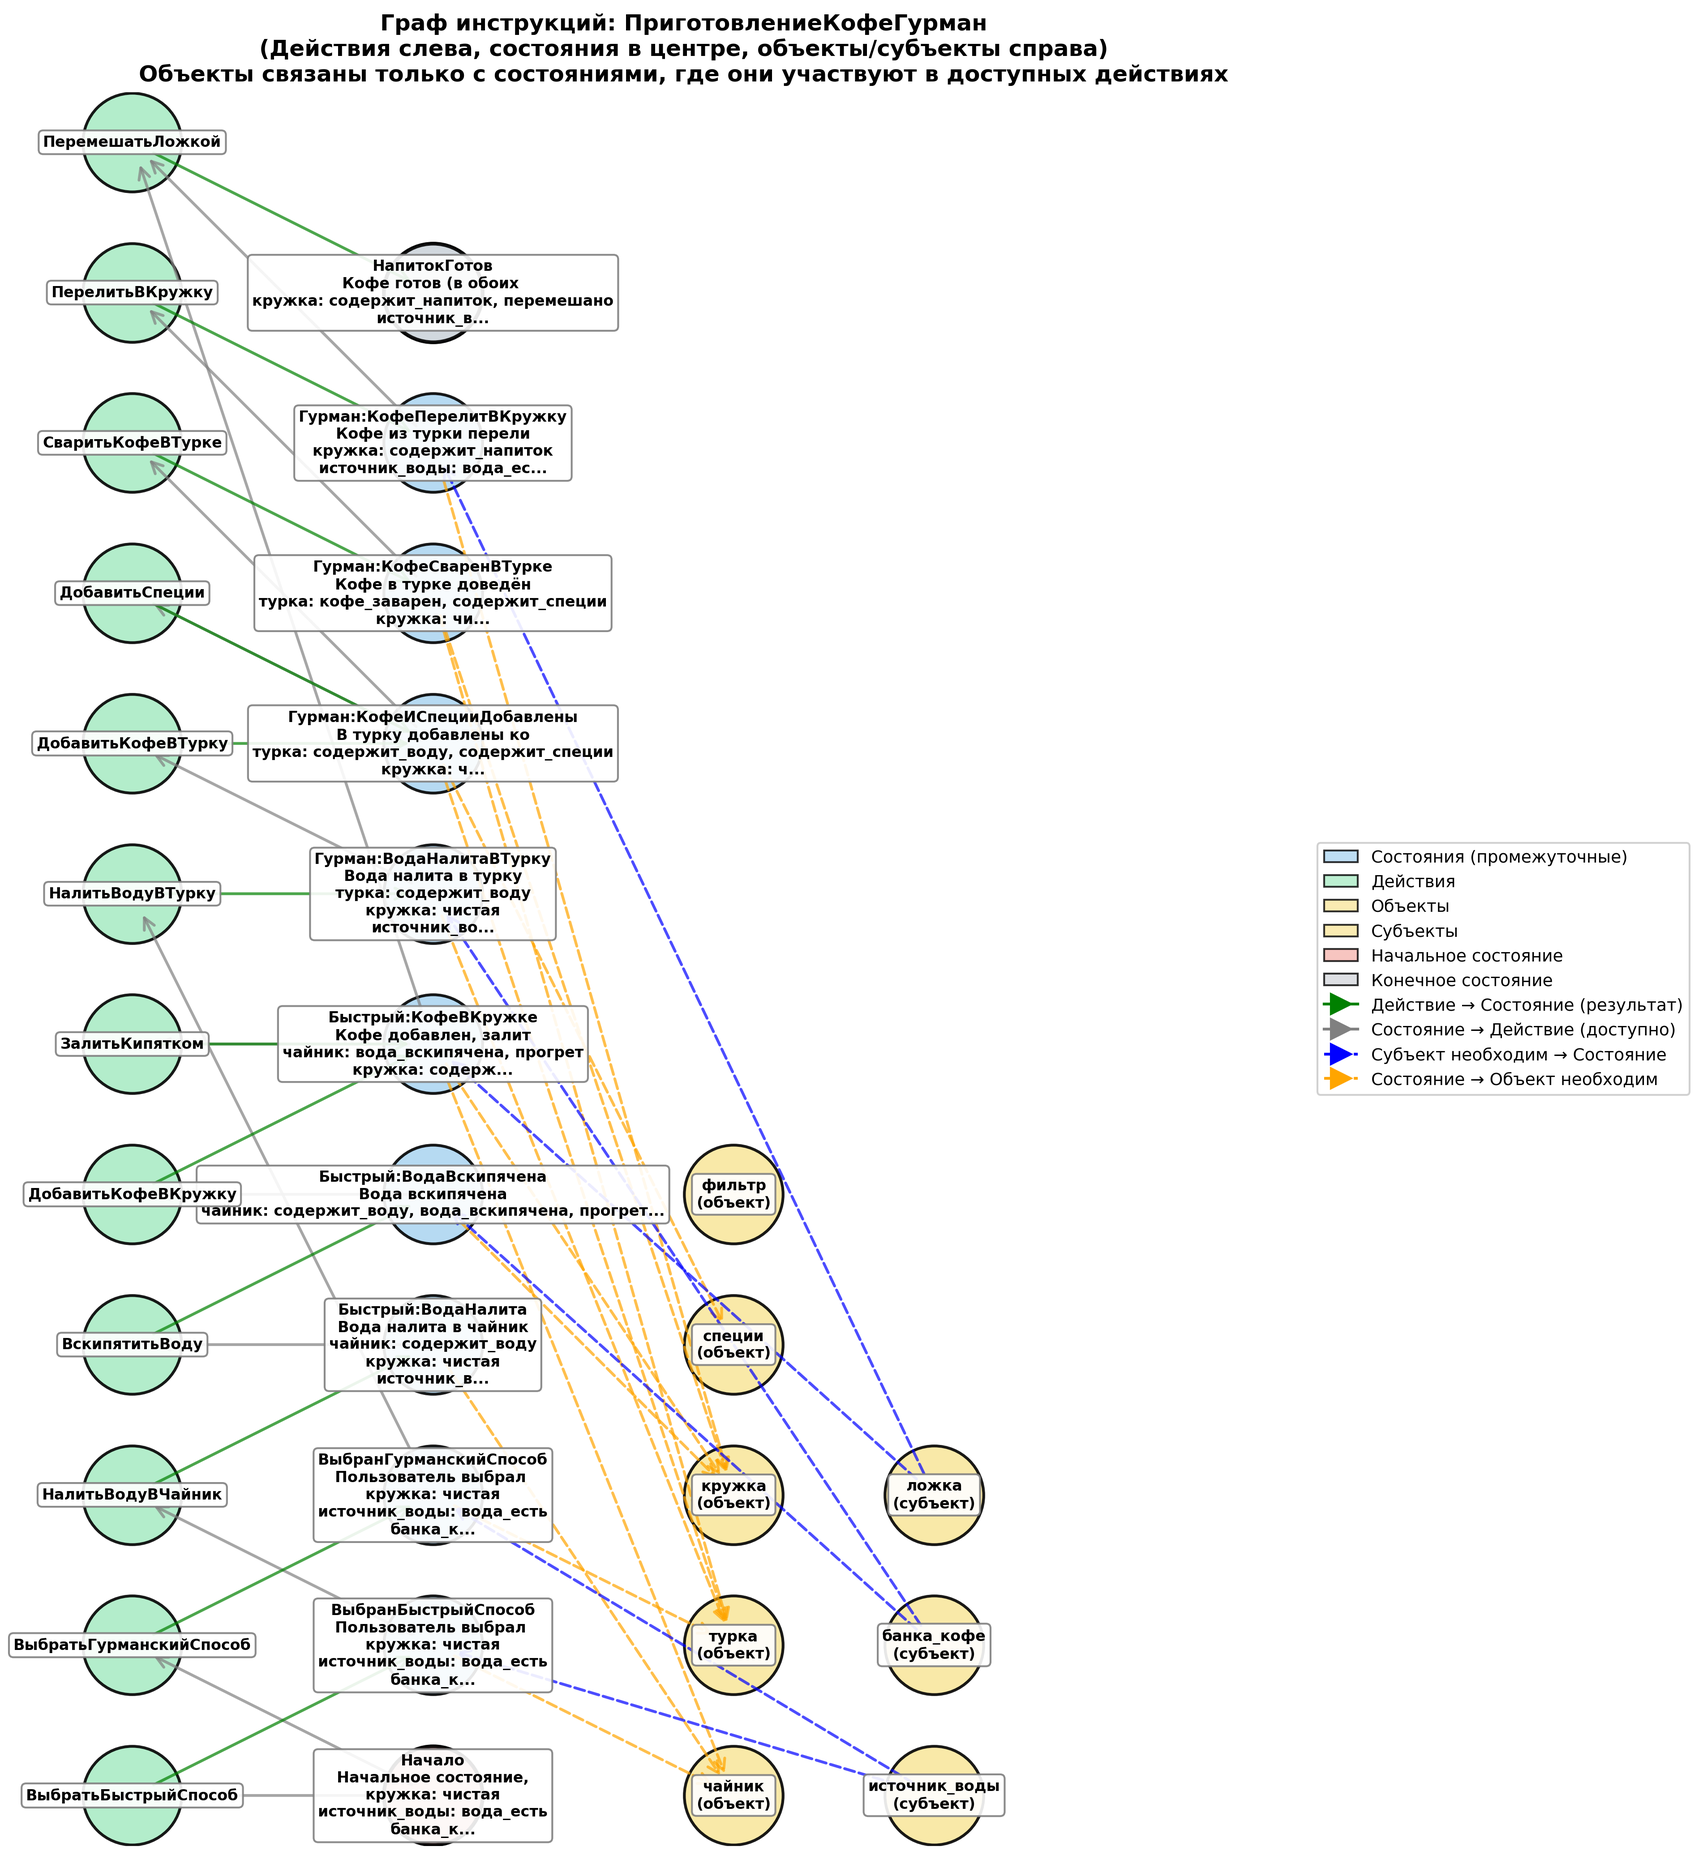
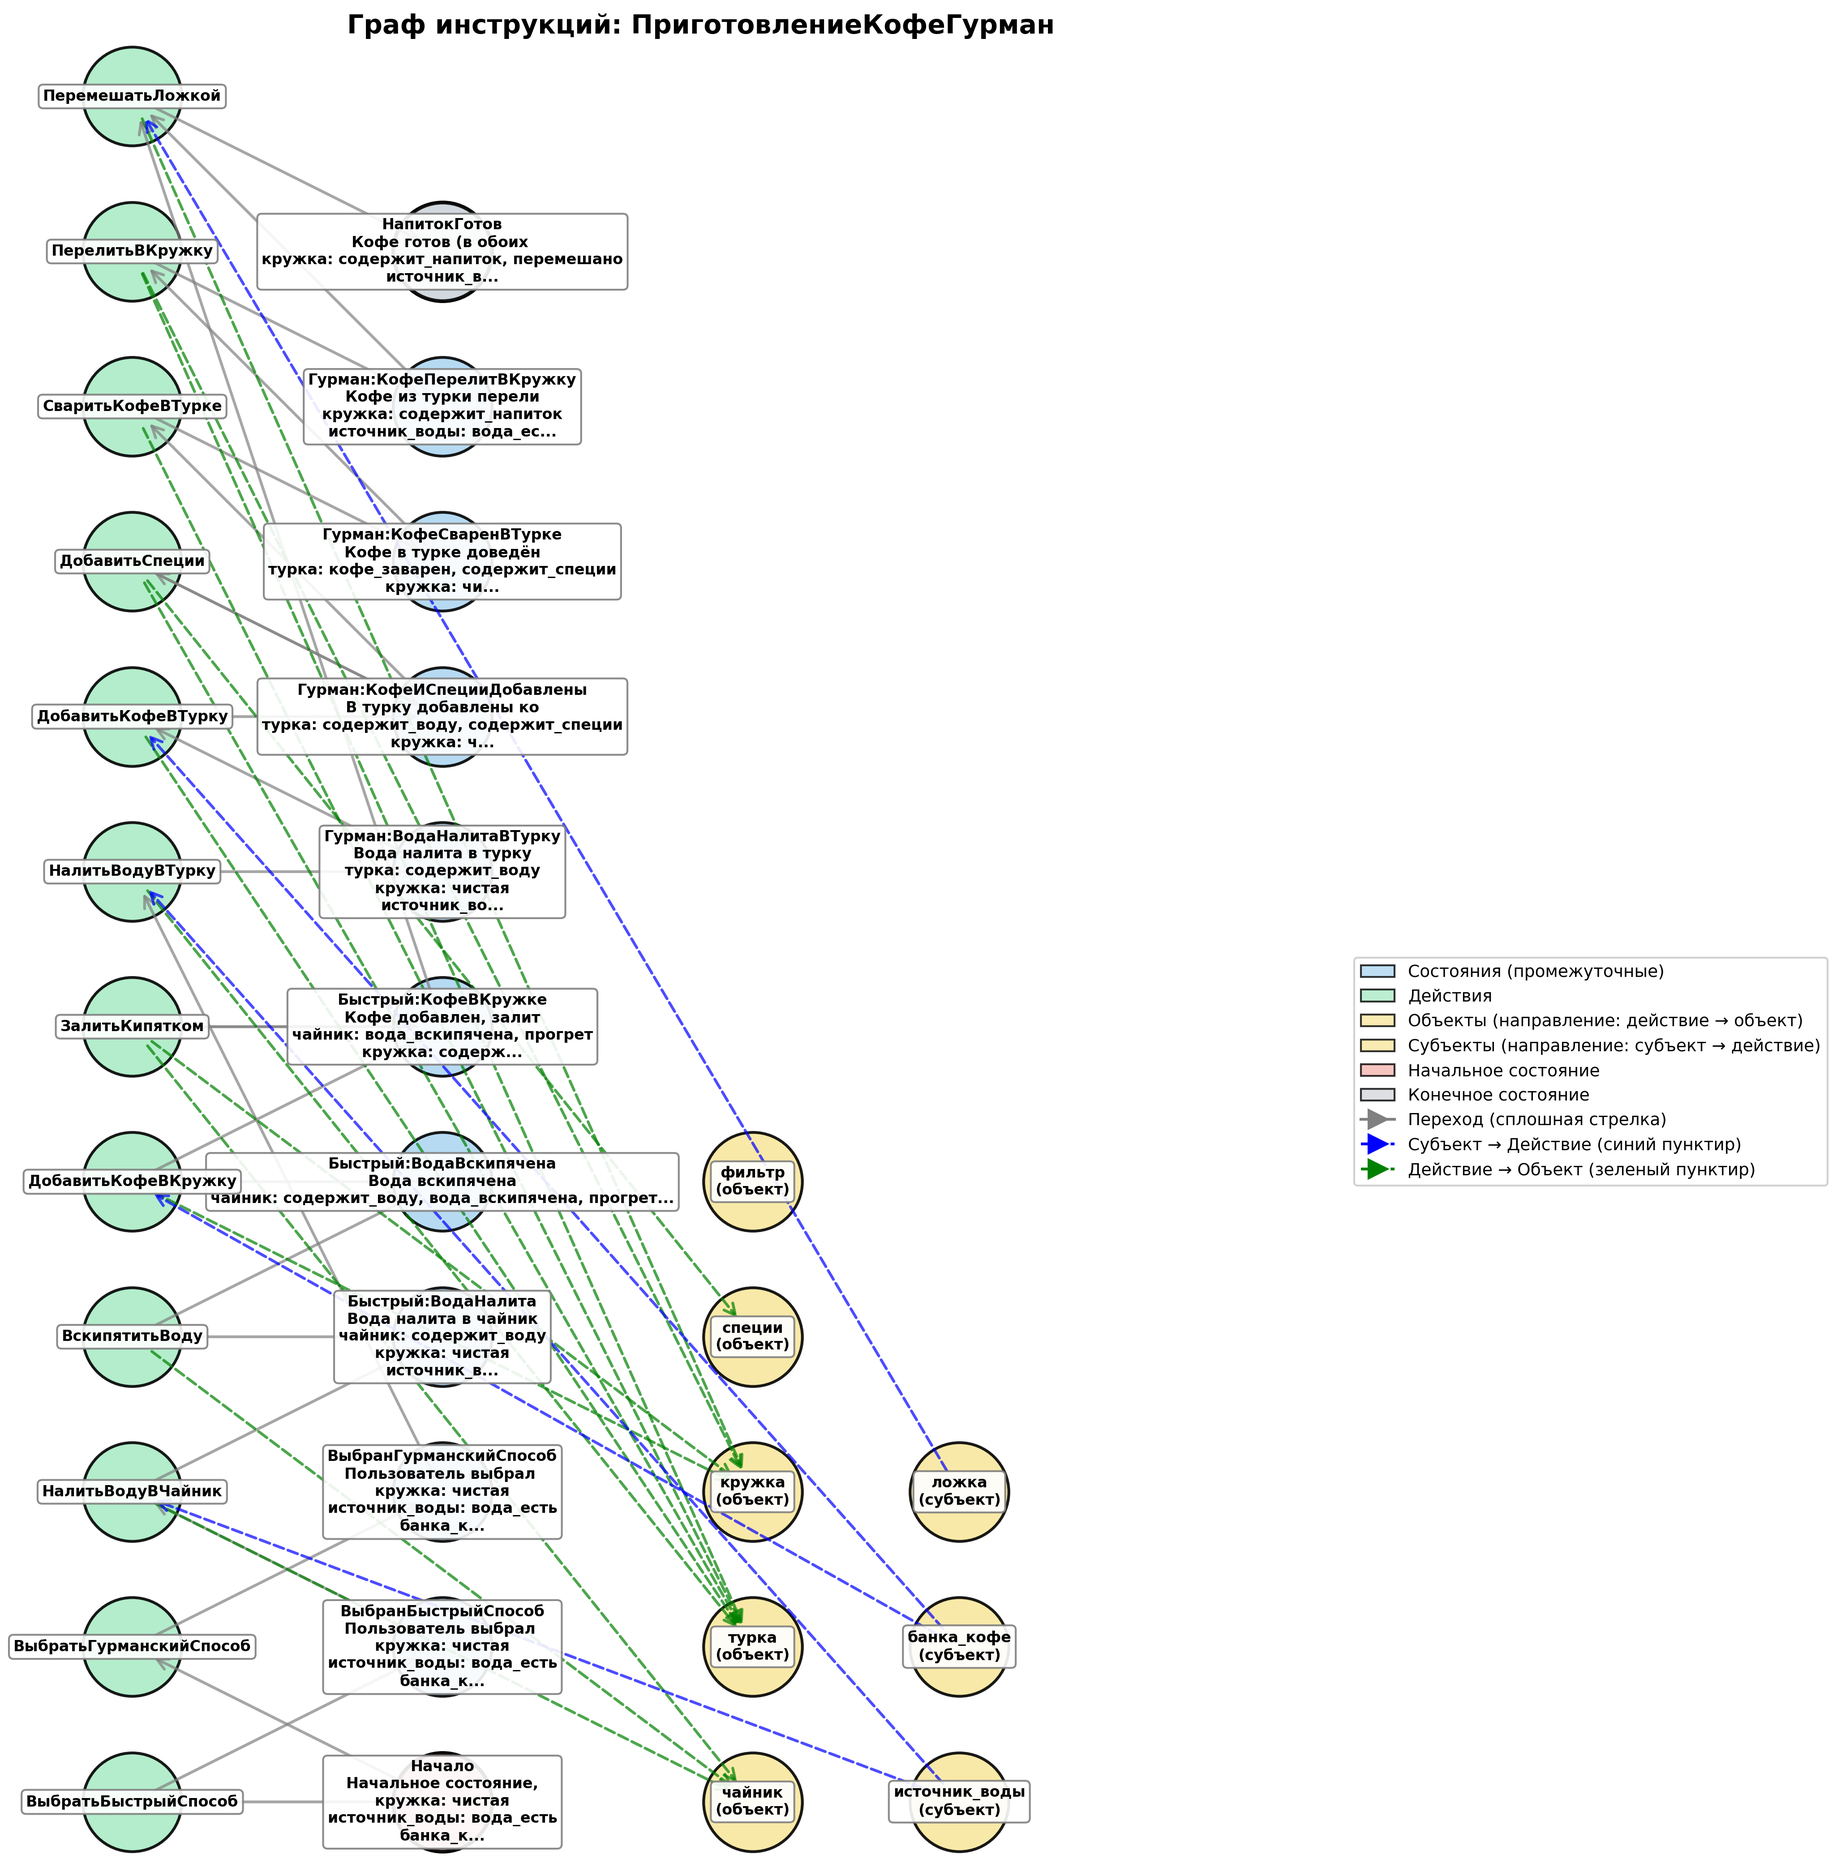
add recursive emergency situations

diff --git a/emergency.py b/emergency.py
@@ -6,11 +6,13 @@ from labels import LabelManager
 
 
 class EmergencyHandler:
-    def __init__(self, base_dir: str, label_manager: LabelManager):
+    def __init__(self, base_dir: str, label_manager: LabelManager, recursion_depth: int = 0, max_depth: int = 3):
         self.base_dir = base_dir
         self.emergency_dir = os.path.join(base_dir, "emergency")
         self.label_manager = label_manager
         self.scenarios_config = self._load_scenarios_config()
+        self.recursion_depth = recursion_depth
+        self.max_depth = max_depth
         os.makedirs(self.emergency_dir, exist_ok=True)
 
     def _load_scenarios_config(self) -> Dict:
@@ -21,13 +23,11 @@ class EmergencyHandler:
             return json.load(f)
 
     def get_emergency_scenarios_for_action(self, action) -> List[Tuple[str, str, bool]]:
-        """Возвращает список (id_сценария, описание, return_to_original) для доступных аварий"""
+        """Возвращает список доступных аварийных сценариев для действия"""
         labels = self.label_manager.get_labels_for_action(action)
-        # Собираем все ключевые слова из меток действия
         action_keywords = set()
         for label in labels:
             action_keywords.update(label.keywords)
-        # Ищем сценарии, у которых теги пересекаются с ключевыми словами действия
         result = []
         for sc_id, info in self.scenarios_config.items():
             sc_tags = set(info.get('tags', []))
@@ -44,7 +44,6 @@ class EmergencyHandler:
             print(f"[ОШИБКА] Файл аварийного сценария {filepath} не найден")
             return None
         try:
-            # Загружаем граф без label_manager (можно передать тот же, но метки не обязательны)
             graph = InstructionGraph.from_json(filepath, self.label_manager)
             return graph
         except Exception as e:
@@ -52,54 +51,124 @@ class EmergencyHandler:
             return None
 
     def run_emergency_scenario(self, scenario_id: str) -> bool:
-        """Запускает выполнение аварийного сценария. Возвращает флаг: нужно ли вернуться в исходный граф."""
+        """Запускает выполнение аварийного сценария с возможностью вложенных аварий"""
+        if self.recursion_depth >= self.max_depth:
+            print("[ПРЕДУПРЕЖДЕНИЕ] Достигнута максимальная глубина вложенных аварийных сценариев. Возврат в основной режим.")
+            return True
+
         graph = self.load_emergency_graph(scenario_id)
         if not graph:
-            return False
+            return True  # при ошибке возвращаемся
+
         info = self.scenarios_config.get(scenario_id, {})
         return_to_original = info.get('return_to_original', True)
-        print(f"\n=== АВАРИЙНЫЙ СЦЕНАРИЙ: {info.get('description', scenario_id)} ===")
+        print(f"\n{'='*70}")
+        print(f"АВАРИЙНЫЙ СЦЕНАРИЙ: {info.get('description', scenario_id)} (уровень вложенности {self.recursion_depth+1})")
+        print(f"{'='*70}")
         print("Выполните следующие действия для устранения аварии.")
+        
+        # Запускаем пошаговый режим для аварийного графа с возможностью вызова новых аварий
         self._run_emergency_steps(graph)
-        print("\n=== АВАРИЙНЫЙ СЦЕНАРИЙ ЗАВЕРШЁН ===")
+        
+        print(f"\n--- АВАРИЙНЫЙ СЦЕНАРИЙ ЗАВЕРШЁН ---")
         return return_to_original
 
     def _run_emergency_steps(self, graph):
-        """Мини-пошаговый режим для аварийного графа без лишних меню"""
+        """Пошаговое выполнение аварийного графа с поддержкой вложенных аварий"""
         if graph.current_state_id is None:
             print("Нет начального состояния в аварийном сценарии")
             return
+
         steps = 0
-        while True:
+        max_steps = 50
+        # Создаём обработчик для вложенного уровня
+        nested_handler = EmergencyHandler(
+            base_dir=self.base_dir,
+            label_manager=self.label_manager,
+            recursion_depth=self.recursion_depth + 1,
+            max_depth=self.max_depth
+        )
+
+        while steps < max_steps:
             cur_state = graph.states[graph.current_state_id]
             print(f"\n--- {cur_state.name} ---")
             print(cur_state.description)
+            if cur_state.objects_state:
+                print("\nСостояние объектов:")
+                for obj, props in cur_state.objects_state.items():
+                    active = [k for k,v in props.items() if v is True]
+                    if active:
+                        print(f"   {obj}: {', '.join(active)}")
             if cur_state.state_type.value == "final":
-                print("Аварийный сценарий завершён.")
+                print("Аварийный сценарий успешно завершён.")
                 break
-            actions = graph.get_available_actions()
-            if not actions:
+
+            available = graph.get_available_actions()
+            if not available:
                 print("Нет доступных действий. Сценарий прерван.")
                 break
-            print("Доступные действия:")
-            for i, (act, _) in enumerate(actions, 1):
+
+            print("\nДоступные действия:")
+            for i, (act, _) in enumerate(available, 1):
                 print(f"{i}. {act.name}: {act.description}")
             print("0. Прервать сценарий")
+
             choice = input("Выберите действие: ").strip()
             if choice == '0':
                 print("Сценарий прерван пользователем.")
                 break
+
             try:
                 idx = int(choice) - 1
-                if 0 <= idx < len(actions):
-                    act, _ = actions[idx]
-                    if input(f"Выполнить {act.name}? (y/n): ").lower() == 'y':
+                if 0 <= idx < len(available):
+                    act, _ = available[idx]
+                    
+                    # Показываем рекомендации (если есть)
+                    recs = self.label_manager.get_top_recommendations_for_action(act, 3)
+                    if recs:
+                        print("\nРекомендации:")
+                        for r in recs:
+                            print(f"   {r['rank']}. {r['text']} (оценка: {r['score']:.3f})")
+
+                    confirm = input(f"\nВыполнить {act.name}? (y/n): ").lower()
+                    if confirm == 'y':
                         graph.execute_action(act.id, silent=False)
                         steps += 1
+                    elif confirm == 'n':
+                        # Возможна новая аварийная ситуация внутри аварийного сценария
+                        print("Возникла ли новая аварийная ситуация? (y/n): ")
+                        new_emergency = input().lower()
+                        if new_emergency == 'y':
+                            scenarios = nested_handler.get_emergency_scenarios_for_action(act)
+                            if not scenarios:
+                                print("Нет подходящих аварийных сценариев для текущей ситуации.")
+                                continue
+                            print("\nДоступные аварийные сценарии:")
+                            for i, (sc_id, desc, _) in enumerate(scenarios, 1):
+                                print(f"{i}. {desc}")
+                            print("0. Отмена")
+                            sc_choice = input("Выберите сценарий: ").strip()
+                            if sc_choice != '0':
+                                try:
+                                    sc_idx = int(sc_choice) - 1
+                                    if 0 <= sc_idx < len(scenarios):
+                                        sc_id, _, _ = scenarios[sc_idx]
+                                        return_to_original = nested_handler.run_emergency_scenario(sc_id)
+                                        if not return_to_original:
+                                            print("Вложенный аварийный сценарий завершён. Прерываем текущий сценарий.")
+                                            return
+                                        # Иначе продолжаем текущий сценарий
+                                    else:
+                                        print("Неверный выбор")
+                                except ValueError:
+                                    print("Ошибка ввода")
+                        else:
+                            print("Действие отменено, выберите другое действие.")
                     else:
-                        print("Отменено")
+                        print("Неверный ввод")
                 else:
                     print("Неверный номер")
             except ValueError:
                 print("Ошибка ввода")
-        print(f"Выполнено шагов аварийного сценария: {steps}")
+
+        print(f"\nВыполнено шагов аварийного сценария: {steps}")

diff --git a/main.py b/main.py
@@ -61,7 +61,7 @@ def step_by_step_mode(graph: InstructionGraph, label_manager: LabelManager, json
                     print(f"   |    | ({ls:<46}) |                       |")
         print("   +----+--------------------------------------------------+-----------------------+")
         print("   | 0  | Завершить и сохранить результаты                 | -                     |")
-        print("   | i  | Информация о действие                            | -                     |")
+        print("   | i  | Информация о действии                            | -                     |")
         print("   | a  | Показать веса критериев                          | -                     |")
         print("   | q  | Показать историю                                 | -                     |")
         print("   | s  | Показать статистику                              | -                     |")
@@ -142,7 +142,7 @@ def step_by_step_mode(graph: InstructionGraph, label_manager: LabelManager, json
                                     return_to_original = emergency_handler.run_emergency_scenario(sc_id)
                                     if return_to_original:
                                         print("Возврат к основному рецепту.")
-                                        # Продолжаем цикл
+                                        # Продолжаем основной цикл
                                     else:
                                         print("Аварийный сценарий завершён. Возврат в главное меню.")
                                         return
